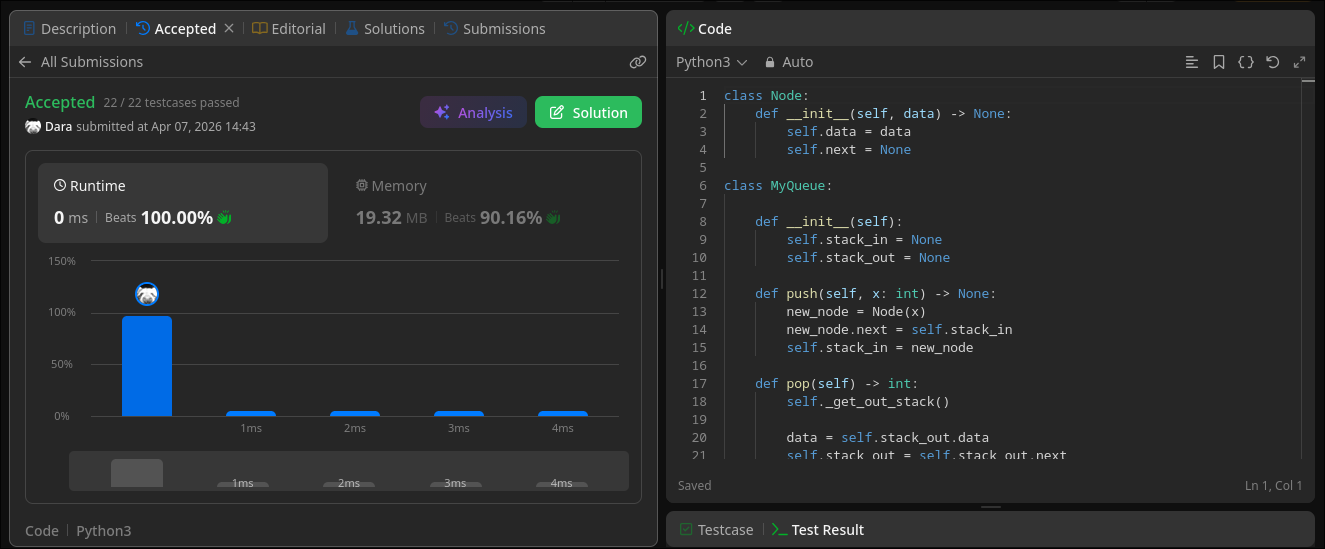
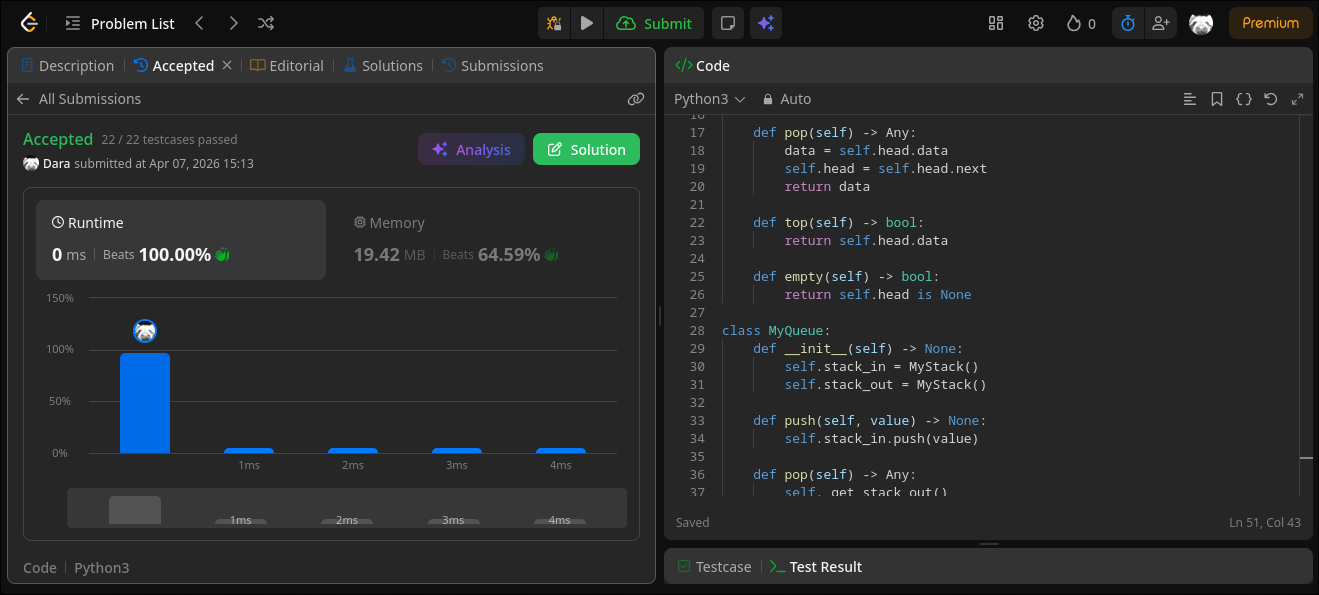
changed solution using custom MyStack class

diff --git a/implement_queue_using_stacks/main.py b/implement_queue_using_stacks/main.py
@@ -1,48 +1,51 @@
+from typing import Any
+
 class Node:
     def __init__(self, data) -> None:
         self.data = data
         self.next = None
 
-class MyQueue:
+class MyStack:
+    def __init__(self) -> None:
+        self.head = None
 
-    def __init__(self):
-        self.stack_in = None
-        self.stack_out = None
-        
-    def push(self, x: int) -> None:
-        new_node = Node(x)
-        new_node.next = self.stack_in
-        self.stack_in = new_node
-        
-    def pop(self) -> int:
-        self._get_out_stack()
+    def push(self, value: int) -> None:
+        new_node = Node(value)
+        new_node.next = self.head
+        self.head = new_node
 
-        data = self.stack_out.data
-        self.stack_out = self.stack_out.next
+    def pop(self) -> Any:
+        data = self.head.data
+        self.head = self.head.next
         return data
 
-    def peek(self) -> int:
-        self._get_out_stack()
+    def top(self) -> bool:
+        return self.head.data
 
-        return self.stack_out.data
-        
     def empty(self) -> bool:
-        return not self.stack_out and not self.stack_in
-        
-    def _get_out_stack(self) -> None:
-        if not self.stack_out:
-            while self.stack_in:
-                temp = self.stack_in
-                self.stack_in = self.stack_in.next
+        return self.head is None
 
-                temp.next = self.stack_out
-                self.stack_out = temp
+class MyQueue:
+    def __init__(self) -> None:
+        self.stack_in = MyStack()
+        self.stack_out = MyStack()
 
+    def push(self, value) -> None:
+        self.stack_in.push(value)
 
+    def pop(self) -> Any:
+        self._get_stack_out()
+        return self.stack_out.pop()
 
-# Your MyQueue object will be instantiated and called as such:
-# obj = MyQueue()
-# obj.push(x)
-# param_2 = obj.pop()
-# param_3 = obj.peek()
-# param_4 = obj.empty()
+    def peek(self) -> Any:
+        self._get_stack_out()
+        return self.stack_out.top()
+
+    def empty(self) -> bool:
+        return self.stack_in.empty() and self.stack_out.empty()
+    
+    def _get_stack_out(self) -> None:
+        if self.stack_out.empty():
+            while not self.stack_in.empty():
+                value = self.stack_in.pop()
+                self.stack_out.push(value)
